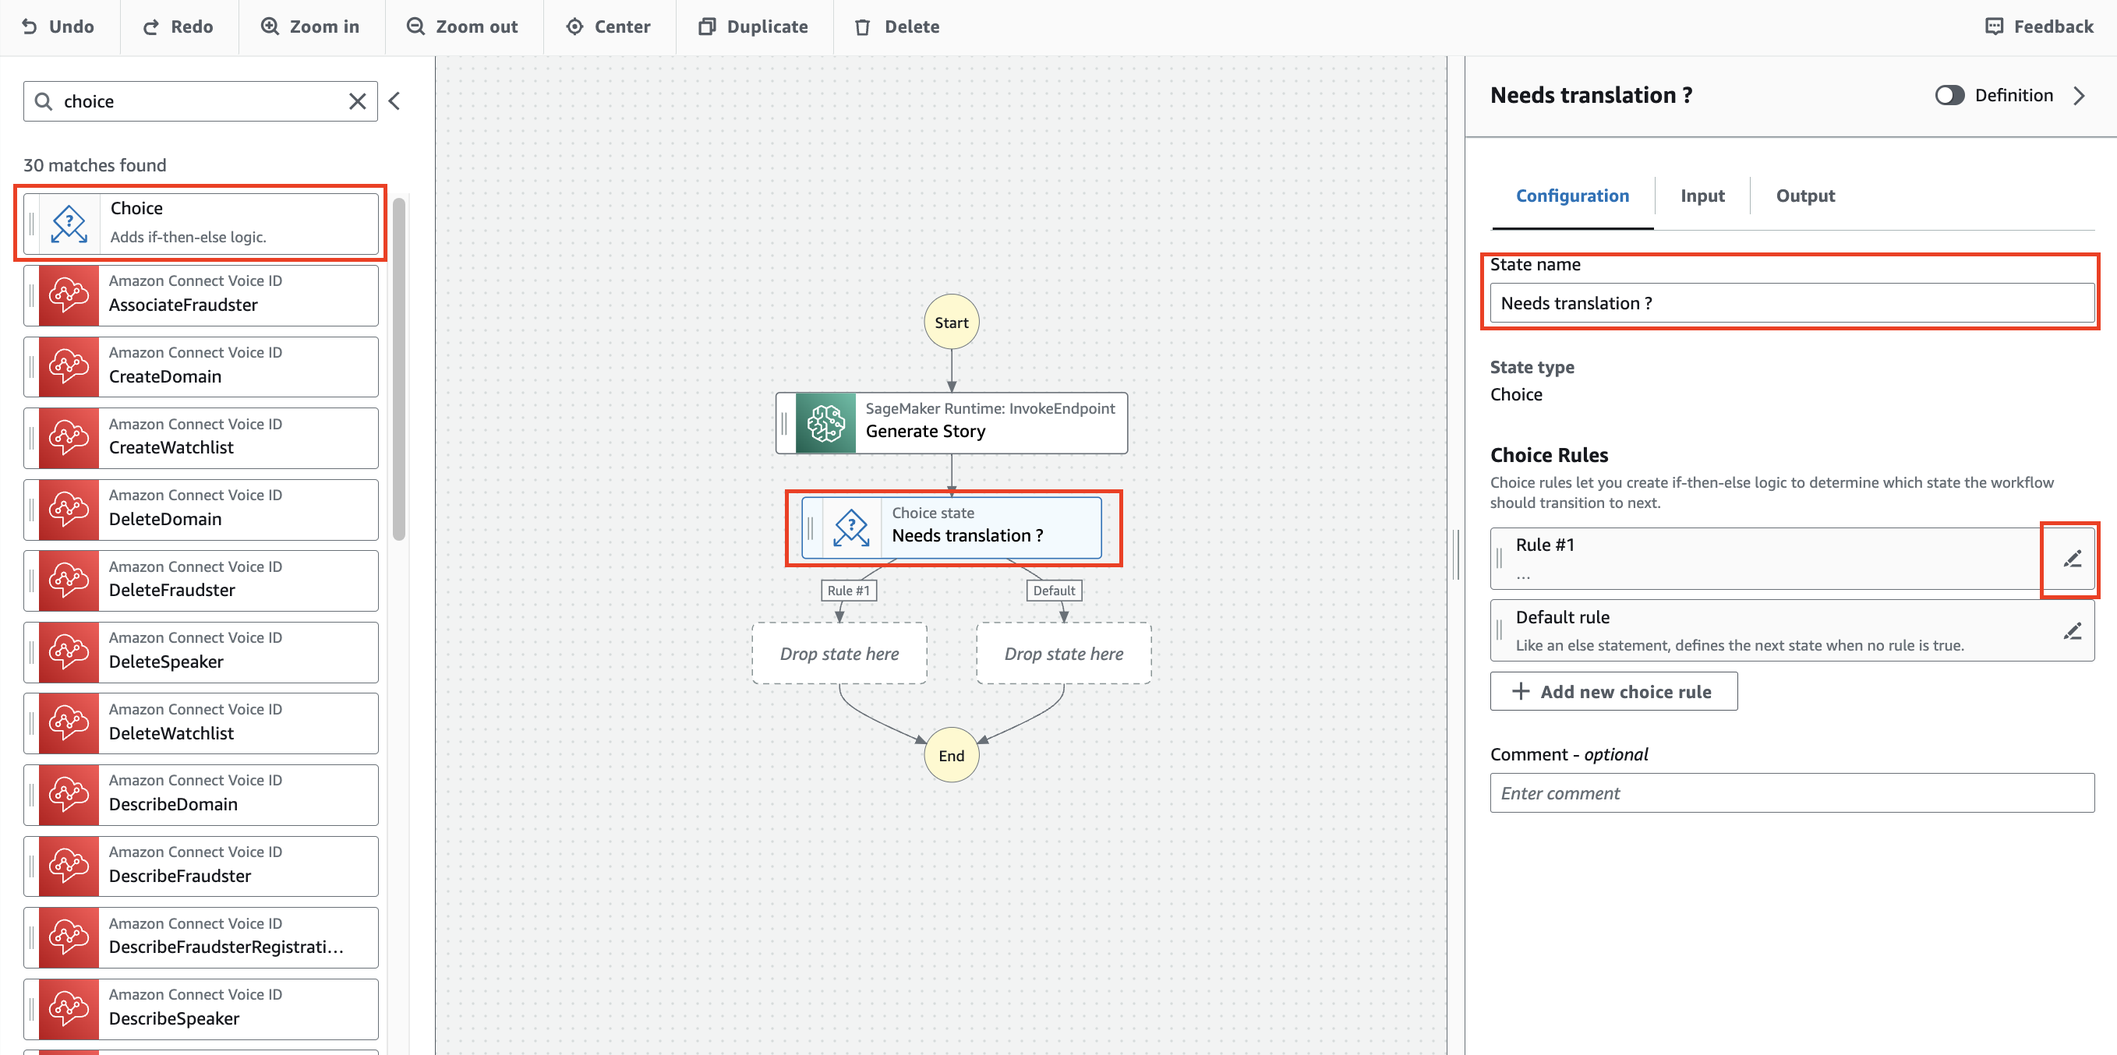
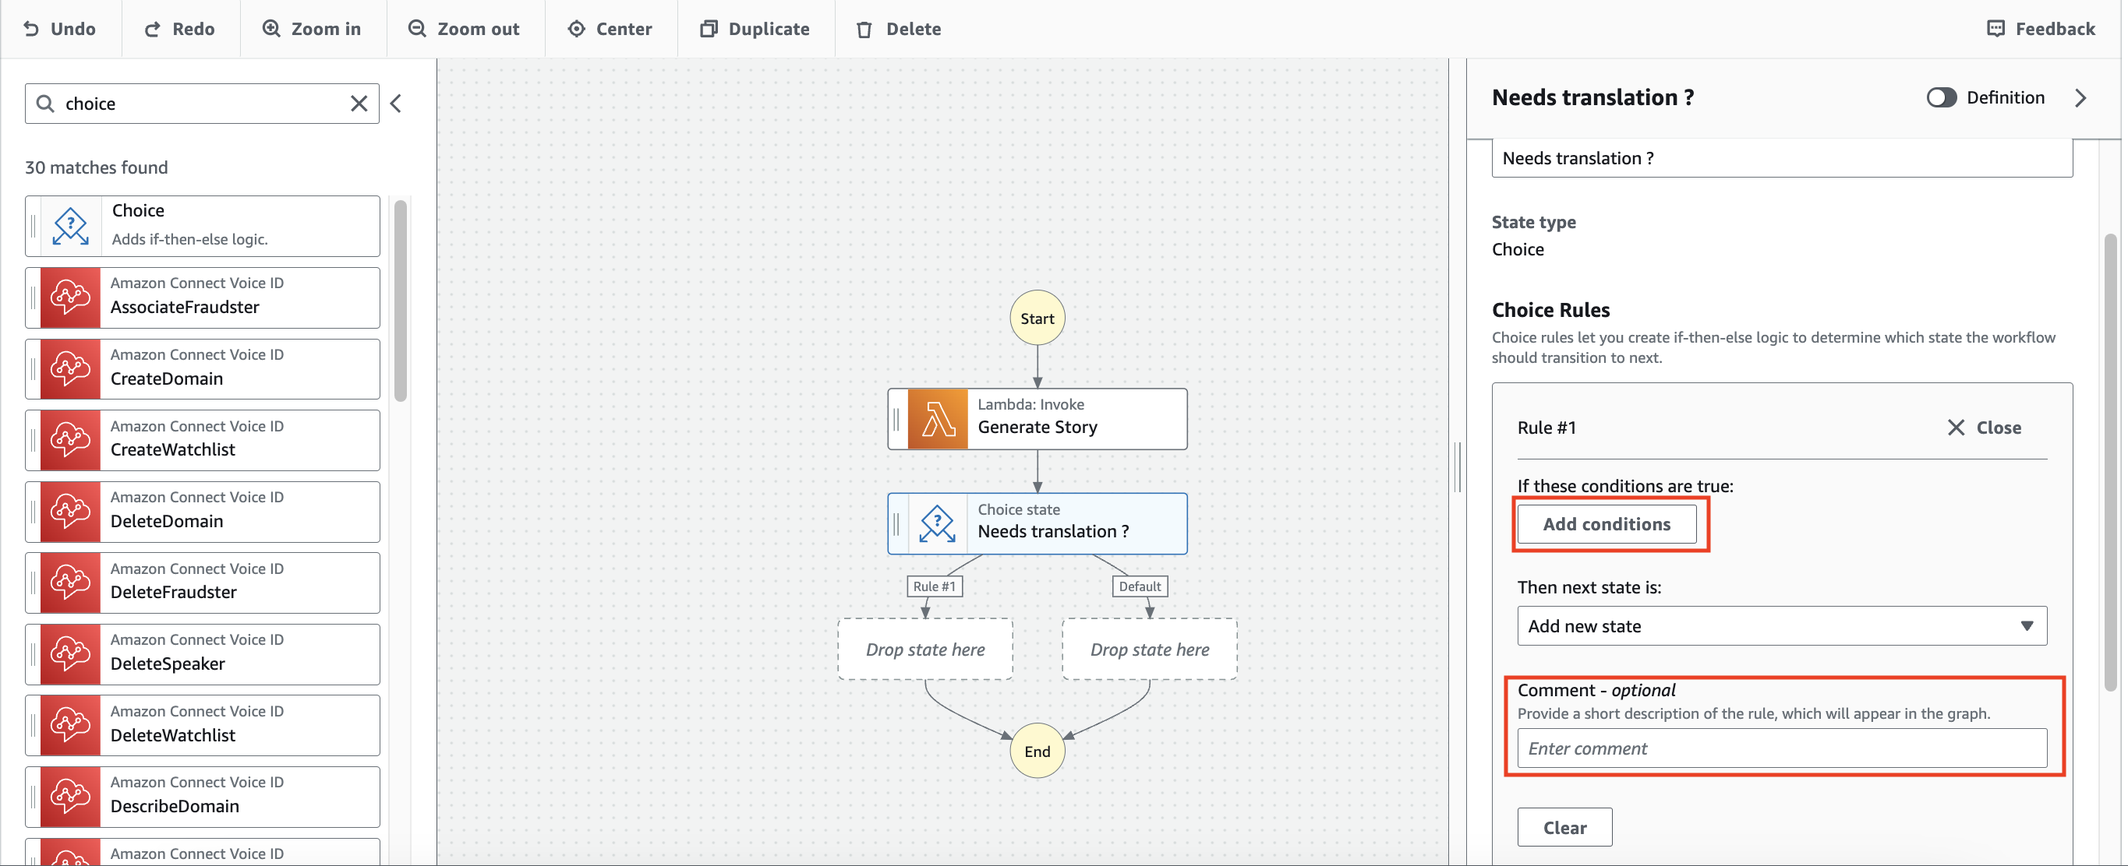
Update workshop for Bedrock

diff --git a/README.md b/README.md
@@ -77,12 +77,12 @@ Now we will start building the backend of our solution. In order to do so, we wi
 3.   Repeat for **CORS allowed headers** and **CORS allowed methods**
 4.   Click save
 ![plot](./images/backend-part-1/3.png)
-1.   Add the lambda resource that will be triggered from API Gateway.
+1.   Add the Lambda resource that will be triggered from API Gateway.
     ![plot](./images/backend-part-1/4.png)
 2.   Click on **Details**
 3.   Enter the logical ID to be **MvpStoriesWorkflowTrigger**
-4.   Update **Source path** field to `src/handlers`. This is the location where your lambda code will be stored locally.
-5.   Update **Handler** field to `workflowTrigger.handler`. This is the name of the js file containing the lambda code and the relative handler method that is exposed
+4.   Update **Source path** field to `src/handlers`. This is the location where your Lambda code will be stored locally.
+5.   Update **Handler** field to `workflowTrigger.handler`. This is the name of the js file containing the Lambda code and the relative handler method that is exposed
 6.   Click save
     ![plot](./images/backend-part-1/5.png)
 7.   Connect the created **MvpStoriesApi** to the **MvpStoriesWorkflowTrigger**
@@ -95,14 +95,40 @@ Now we will start building the backend of our solution. In order to do so, we wi
     ![plot](./images/backend-part-1/8.png)
 12. Link the **MvpStoriesWorkflowTrigger** resource to **MvpStoriesWorkflow** resource
     ![plot](./images/backend-part-1/9.png)
-13. Drag an additional lambda function resource, similarly to the firstly created lambda function resource. Change the following details for your function:
+13. Drag an additional Lambda function resource, similarly to the firstly created Lambda function resource. Change the following details for your function:
     - Logical ID to **MvpStoriesTextToSpeech**
     - Source path to `src/handlers`
     - Handler to `textToSpeech.handler`
+    - Add the following IAM policy in the Permissions section:
+      ```yaml
+      - Statement:
+        - Effect: Allow
+          Action:
+            - polly:*
+          Resource:
+            - '*'
+      ```
+      This will give the permission to your Lambda function to call the Amazon Polly service which is needed for the Text to Speech conversion of our story.
     ![plot](./images/backend-part-1/10.png)
 14. Drag and drop an S3 Bucket resource. Change the logical ID to **MvpStoriesBucket**
 15. Link the **MvpStoriesTextToSpeech** resource with tge **MvpStoriesBucket** resource
   ![plot](./images/backend-part-1/11.png)
+16.  Drag an additional Lambda function resource, similarly to the firstly created Lambda function resource. Change the following details for your function:
+    - Logical ID to **MvpStoriesBedrock**
+    - Source path to `src/handlers`
+    - Handler to `bedrock.handler`
+    - Add the following IAM policy in the Permissions section:
+      ```yaml
+      - Statement:
+        - Effect: Allow
+          Action: bedrock:InvokeModel
+          Resource: '*'
+      ```
+      This will give the permission to your Lambda function to invoke your LLM through Amazon Bedrock.
+    ![plot](./images/backend-part-1/12.png)
+
+
+A `template.yaml` file will have been created by Application Composer. This IaC (Infrastructure as Code) template describes your serverless architecture using [AWS SAM (Serverless Application Model)](https://aws.amazon.com/serverless/sam/).
 
 ### Build the Step Function workflow logic
 
@@ -115,172 +141,126 @@ Currently the Step Function workflow resource in your Application Composer canva
 4. Choose **Express** type of workflow (as for the sake of this demo, we will be running everything syncronously)
 5. Click next
     ![plot](./images/step-function/2.png)
-6. Drag and drop a SageMaker Runtime InvokeEndpoint action in your workflow.
-7. Set the name of the state to **Generate Story**
-8. Under API parameters, paste the JSON below. Those parameters will be used for the SageMaker endpoint invocation. Note that we are building a prompt based on the provided context as well as passing the name of the SageMaker endpoint we have previously deployed.
-  ![plot](./images/step-function/3.png)
-    ```json
-    {
-      "ContentType": "application/json",
-      "Body": {
-        "inputs.$": "States.Format('Write a 80-120 words long children story about {}', $.context)",
-        "parameters": {
-          "max_new_tokens": 300
-        }
-      },
-      "EndpointName": "NAME_OF_YOUR_SAGEMAKER_ENDPOINT"
-    }
-    ```
-
-9. We will want to pass the generated story as input to the next state. Let's filter out the story from the result of the SageMaker endpoint invocation:
-   1. Select the **Output** tab
-   2. Select the **Transform result with ResultSelector** option and type
-        ```json
-        {
-          "body.$": "States.StringToJson($.Body)"
-        }
-        ```
-        This will allow us to transform the stringified json body in an actual json
-   3. Select the **Filter output with OutputPath** option and type
-        ```
-        $.body[0].generated_text
-        ```
-        This will allow us to extract the generated text/story and pass it to the next state
-  ![plot](./images/step-function/4.png)
-10.  Now that we need to know wether our story needs translation or not. In order to do so, we need to make a choice. Drag and drop a **Choice** state after the **Generate Story** state. 
-11.  Change the state name to **Needs translation ?**
-12.  Click on the edit icon of Rule 1
+6. Drag and drop an AWS Lamba Invoke state.
+7. Change the state name to **Generate Story**
+8. Under API parameters, choose the function name to be **Enter function name** and `${MvpStoriesBedrockArn}` as shown on the image below. This value will be dynamically filled in with the actual ARN of our Lambda function when our backend is deployed:
+    ![plot](./images/step-function/3.png)
+9.   Now we need to know whether our story needs translation or not. In order to do so, we need to make a choice. Drag and drop a **Choice** state after the **Generate Story** state. 
+10.  Change the state name to **Needs translation ?**
+11.  Click on the edit icon of Rule 1
+    ![plot](./images/step-function/4.png)
+12. Enter the **Needs translation** in the comment section
+13. Click on Add conditions
     ![plot](./images/step-function/5.png)
-13. Enter the **Needs translation** in the comment section
-14. Click on Add conditions
-    ![plot](./images/step-function/6.png)
-15. Set condition for rule one as follows:
+14. Set condition for rule one as follows:
     - Not: **NOT**
     - Variable: **$$.Execution.Input.locale** (value of **locale** provided as input to statemachine)
     - Operator: **is equal to**
     - Value: **String constant**
     - **en**
-16. Click **Save conditions**
-    ![plot](./images/step-function/7.png)
-17. Let's start with the case where the story does not need translation. Let's drag and drop a **Pass** state to transform the current state of the state machine to be passed to the next step.
-18. Change the state name to **Prepare input for textToSpeech**
+15. Click **Save conditions**
+    ![plot](./images/step-function/6.png)
+16. Let's start with the case where the story does not need translation. Let's drag and drop a **Pass** state to transform the current state of the state machine to be passed to the next step.
+17. Change the state name to **Prepare input for textToSpeech**
+  ![plot](./images/step-function/7.png)
+18.  Click on Input
+19.  Select **Transform input with Parameters**
+20.  Fill in the following json:
+  ```json
+  {
+    "story.$": "$",
+    "locale.$": "$$.Execution.Input.locale"
+  }
+  ```
   ![plot](./images/step-function/8.png)
-19. Click on Input
-20. Select **Transform input with Parameters**
-21. Fill in the following json
-    ```json
-    {
-      "story.$": "$",
-      "locale.$": "$$.Execution.Input.locale"
-    }
-    ```
-    ![plot](./images/step-function/9.png)
     With this, we are creating a json to be passed to the next state with the generated story and the requested language of the story.
 
-22. Drag and drop an AWS Lamba Invoke step after the **Prepare input for textToSpeech** state.
-23. Change the state name to **Convert Story to Speech**
-24. Under API parameters, choose the function name to be **Enter function name** and **TBD** as shown on the image below (this is a dummy value as the lambda function does not exist yet. It will be updated later on in Application Composer):
-    ![plot](./images/step-function/10.png)
-25. Now lets handle the case were we actually need to translate our story. Drag and drop a Translate TranslateText step for the **Needs Translation** branch
-26. Change the state name to **Translate story**
-27. Change the API parameters for the Amazon Translate call to the following json
-    ```json
-    {
-      "SourceLanguageCode": "en",
-      "TargetLanguageCode.$": "$$.Execution.Input.locale",
-      "Text.$": "$"
-    }
-    ```
-  ![plot](./images/step-function/11.png)
-
-28. Similarly to the **Generate Story** step, we want to pass the translated story as input to the next state. Let's filter out the story from the result of the TranslateText call
+21.  Drag and drop an AWS Lamba Invoke step after the **Prepare input for textToSpeech** state.
+22.  Change the state name to **Convert Story to Speech**
+23.  Under API parameters, choose the function name to be **Enter function name** and `${MvpStoriesTextToSpeechArn}` as shown on the image below. This value will be dynamically filled in with the actual ARN of our Lambda function when our backend is deployed:
+    ![plot](./images/step-function/9.png)
+24.  Now lets handle the case were we actually need to translate our story. Drag and drop a Translate TranslateText step for the **Needs Translation** branch
+25.  Change the state name to **Translate story**
+26.  Change the API parameters for the Amazon Translate call to the following json:
+  ```json
+  {
+    "SourceLanguageCode": "en",
+    "TargetLanguageCode.$": "$$.Execution.Input.locale",
+    "Text.$": "$"
+  }
+  ```
+![plot](./images/step-function/10.png)
+1.   Similarly to the **Generate Story** step, we want to pass the translated story as input to the next state. Let's filter out the story from the result of the TranslateText call
     1.  Click on Output
     2.  Select the **Filter output with OutputPath** option and type:
         ```
         $.TranslatedText
         ```
     
-  ![plot](./images/step-function/12.png)
+  ![plot](./images/step-function/11.png)
 
-29. After our **Translate story** step, we want to perform the same steps as the **Default** branch of our Choice state.
+28. After our **Translate story** step, we want to perform the same steps as the **Default** branch of our Choice state.
     1.  Click on Configuration
     2.  Select **Next state** to be the **Prepare input for textToSpeech** state
-  ![plot](./images/step-function/13.png)
-30. Now that our workflow is setup, we can export it by clicking on **Import/Export**
-31. Click on **Export YAML definition**
-    ![plot](./images/step-function/14.png)
-32. Copy the contents of the downloaded file
+  ![plot](./images/step-function/12.png)
+29. Now that our workflow is setup, we can export it by clicking on **Import/Export**
+30. Click on **Export JSON definition**
+    ![plot](./images/step-function/13.png)
+31. Copy the downloaded file to your backend folder and name the file `statemachine.asl.json`
 
-### Build the backend with Application Composer - Part 2
-
-1. Go back to your Application Composer project.
-2. Click on your **MvpStoriesWorkflow** resource
-3. Paste the content of the downloaded state machine definition into the input field of your resource
-4. Click on save
-    ![plot](./images/backend-part-2/1.png)
-5. Link the **Convert Story to Speech** state in **MvpStoriesWorkflow** with the corresponding **MvpStoriesTextToSpeech** lambda resource
-    ![plot](./images/backend-part-2/2.png)
-    > Note: This is where Application composer will update the dummy function name **TBD** we had set out when defining Lambda invoke states in our Step Function workflow and place a dynamic reference to the Lambda resources that will be created from the SAM template generated by Application Composer.
-6. In order for our **MvpStoriesTextToSpeech** lambda function to be allowed to call the Amazon Polly service, we will want to add some permissions to our function.
-   1. Click on the resource
-   2. Scroll down to the permissions section. (note that some permissions to access the S3 bucket have already been automatically created by Application Composer 🦄)
-   3. Add the following permissions in the permissions tab
-      ```yaml
-      - Statement:
-        - Effect: Allow
-          Action:
-            - polly:*
-          Resource: 
-            - "*"
-      ```
-   4. Click Save
-  ![plot](./images/backend-part-2/3.png)
-
-7. We are now done with Application Composer
-   1. Click the Template tab
-   2. You will see a **yaml** template that we will use to deploy our backend with AWS SAM. Copy the contents of this template, we will use it in the next section.
-  ![plot](./images/backend-part-2/4.png)
 ### Finalize the backend locally
 
-The template file created by Application Composer is IaC (Infrastructure as Code) describing your serverless architecture using [AWS SAM (Serverless Application Model)](https://aws.amazon.com/serverless/sam/).
+There are a few things that we need to modify in our `template.yaml` file to make our application behave as we want to (and that we unfortunately cannot do directly in Application Composer at the time of writing this document).
 
-There are a few things that we need to modify in this template to make our application behave as we want to (and that we unfortunately cannot do directly in Application Composer at the time of writing this document).
-
-1. Paste the contents of the template in a file called `template.yaml` in your backend folder.
-2. Search for the key `Resources.MvpStoriesWorkflow.Properties.Type` and change it from **STANDARD** to **EXPRESS**.
-    > Note: For the sake of this demo, we are running our application syncronously. In order to be able to call our Step Function workflow syncronously, we need it to be of Type EXPRESS.
-3. Search for the key `Resources.MvpStoriesWorkflowTrigger.Properties.Policies` and change the content of this key from
+1. Head to the resource called **MvpStoriesWorkflow**. Remove the **Defininition** key from that resource and replace it with:
     ```yaml
-    Policies:
-      - StepFunctionsExecutionPolicy:
-          StateMachineName: !GetAtt MvpStoriesWorkflow.Name
+    DefinitionUri: ./statemachine.asl.json
     ```
-    to
-    ```yaml
+    Here, we are informing SAM where to find our workflow definition that we created from the Step Function console.
+
+2. Add another key to **MvpStoriesWorkflow**:
+   ```yaml
+   DefinitionSubstitutions:
+      MvpStoriesTextToSpeechArn: !GetAtt MvpStoriesTextToSpeech.Arn
+      MvpStoriesBedrockArn: !GetAtt MvpStoriesBedrock.Arn
+   ```
+   This addition allows us to dynamically pass the name of the 2 Lambda functions we will be using in our state machine (MvpStoriesTextToSpeech and MvpStoriesBedrock)
+
+3. We need to add a few permissions to **MvpStoriesWorkflow**, add the following permissions under the **Policies** key:
+   ```yaml
     Policies:
+      ...EXISTING_POLICIES...
       - Statement:
           - Effect: Allow
-            Action: states:StartSyncExecution
-            Resource: !GetAtt MvpStoriesWorkflow.Arn
-    ```
-    With this change we are allowing the lambda function to call our step function workflow in a syncronous way.
-4. Search for the key `Resources.MvpStoriesWorkflow.Properties.Policies` and add the following policies:
-    ```yaml
+            Action:
+              - translate:*
+            Resource:
+              - '*'
+      - LambdaInvokePolicy:
+          FunctionName: !Ref MvpStoriesTextToSpeech
+      - LambdaInvokePolicy:
+          FunctionName: !Ref MvpStoriesBedrock
+   ```
+   This gives the permission to **MvpStoriesWorkflow** to call the Amazon Translate service and invoke the two lambda functions used in our workflow.
+
+4. Change the **Type** key of **MvpStoriesWorkflow** from `STANDARD` to `EXPRESS`. This will allow us to invoke our Step Function workflow synchronously.
+5. Head to the **MvpStoriesWorkflowTrigger** and change the **Policies** key from 
+  ```yaml
+  Policies:
+    - StepFunctionsExecutionPolicy:
+        StateMachineName: !GetAtt MvpStoriesWorkflow.Name
+  ```
+  to
+  ```yaml
+  Policies:
     - Statement:
-      - Effect: Allow
-        Action:
-          - sagemaker:InvokeEndpoint
-        Resource:
-          - !Sub arn:aws:sagemaker:${AWS::Region}:${AWS::AccountId}:endpoint/NAME_OF_YOUR_SAGEMAKER_ENDPOINT
-    - Statement:
-      - Effect: Allow
-        Action:
-          - translate:*
-        Resource:
-          - '*'
-    ```
-    Those policies allow your Step Function workflow to invoke the SageMaker endpoint you deployed and to run the translation job with Amazon Translate.
-5. Head to the end of the `template.yml` document and paste the following code:
+        - Effect: Allow
+          Action: states:StartSyncExecution
+          Resource: !GetAtt MvpStoriesWorkflow.Arn
+  ```
+  This will give the permission to the **MvpStoriesWorkflowTrigger** Lambda function to invoke the **MvpStoriesWorkflow** resource synchrounously.
+
+6. Finally to the end of the `template.yml` document and paste the following code:
     ```yaml
     Outputs:
       MvpStoriesApi:
@@ -289,7 +269,7 @@ There are a few things that we need to modify in this template to make our appli
     ```
     This change will make sure that everytime you deploy your application with SAM, the API Gateway endpoint will be printed as output.
 
-Now that we have our IaC settled, there is a last thing we need to take care of before being able to deploy. In application composer, we have defined 2 lambda resources. We have defined their configuration but we did not define the actual code contained in those lambda functions. Let's do this now.
+Now that we have our IaC settled, there is a last thing we need to take care of before being able to deploy. In Application Composer, we have defined 2 Lambda resources. We have defined their configuration but we did not define the actual code contained in those Lambda functions. Let's do this now.
 
 1. create a the `src/handlers` in your `backend` directory.
 2. Create a `src/handlers/workflowTrigger.mjs` file and type in the following code
@@ -317,7 +297,34 @@ Now that we have our IaC settled, there is a last thing we need to take care of 
     }
     ```
     This code will handle the request incoming from API Gateway, call the Step Function workflow syncronously and return the formatted results.
-3. Create a `src/handlers/textToSpeech.mjs` file and type in the following code
+3. Create a `src/handlers/bedrock.mjs` file and type in the following code
+    ```js
+    import { BedrockRuntimeClient, InvokeModelCommand } from "@aws-sdk/client-bedrock-runtime"
+    const client = new BedrockRuntimeClient()
+
+    export const handler = async (event) => {
+      const command = new InvokeModelCommand({
+        "modelId": "anthropic.claude-instant-v1",
+        "contentType": "application/json",
+        "accept": "*/*",
+        "body": JSON.stringify({
+          "prompt": `\n\nHuman: Write an approx 100 words long children story about ${event.context}. Only provide the generated story as response, no leading text. \n\nAssistant:`,
+          "max_tokens_to_sample": 300,
+          "temperature": 1,
+          "top_k": 250,
+          "top_p": 0.999,
+          "stop_sequences": [
+              "\n\nHuman:"
+          ],
+          "anthropic_version": "bedrock-2023-05-31"
+        })
+      })
+      const response = await client.send(command)
+      return Buffer.from(response.body).toString('utf8')
+    }
+    ```
+    This code will call the Anthropic Claude Instant V1 model from Amazon Bedrock with a given prompt. Feel free to test out any other text generation model from Bedrock. Make sure to enable the model from the [Bedrock console](https://console.aws.amazon.com/bedrock/home#/modelaccess) before trying to use it in this demo.
+4. Create a `src/handlers/textToSpeech.mjs` file and type in the following code
     ```js
     import { PollyClient, SynthesizeSpeechCommand } from "@aws-sdk/client-polly"
     import { S3Client, GetObjectCommand } from "@aws-sdk/client-s3"
@@ -423,6 +430,6 @@ A few ideas on how to improve on the current solution:
   - The `sam pipeline` command can help you setup a deployment pipeline. More information about this [here](https://aws.amazon.com/blogs/compute/introducing-aws-sam-pipelines-automatically-generate-deployment-pipelines-for-serverless-applications/)
   - Amplify hosting can be directly connected to your git provider, meaning that on every push, it would re-build your frontend and deploy it for you.
 - Have different deployments for different environments
-- Let your application work `async` by submitting the request, integrating API Gateway with Step Functions directly (without the need to go through a lambda invocation) and working with websockets to notify the user when the story has been generated.
+- Let your application work `async` by submitting the request, integrating API Gateway with Step Functions directly (without the need to go through a Lambda invocation) and working with websockets to notify the user when the story has been generated.
 - Directly call AWS services like Amazon Polly and Amazon Translate from your Step Function workflow (this requires more knowledge on how the Step Function service works)
 - ...
